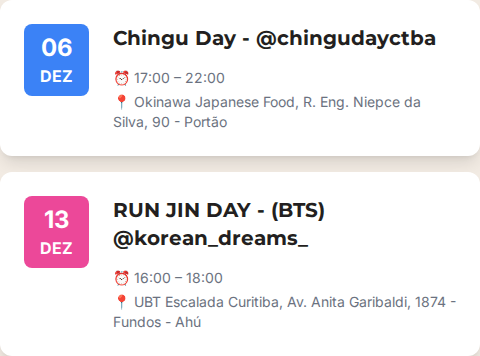
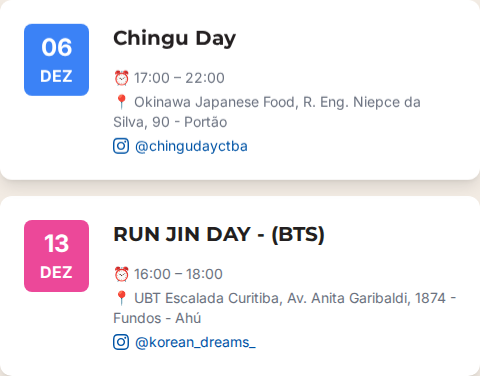
feat: Add Instagram handles to events
This commit adds the Instagram handles to the November and December events on the homepage, as requested by the user. The changes have been visually verified using Playwright.

diff --git a/index.html b/index.html
@@ -330,10 +330,11 @@
                                         <p class="font-bold">NOV</p>
                                     </div>
                                     <div class="flex-grow">
-                                        <h2 class="text-xl font-bold text-preto-carvao">HALLONee CWB - (Shinee) @08replay</h2>
+                                        <h2 class="text-xl font-bold text-preto-carvao">HALLONee CWB - (Shinee)</h2>
                                         <div class="text-sm text-gray-500 mt-4 space-y-1">
                                             <p>⏰ 13:00 – 15:00</p>
                                             <p>📍 Go Coffee - Água Verde, R. Mato Grosso, 45 - Água Verde</p>
+                                            <p><a href="https://www.instagram.com/08replay/" target="_blank" class="text-azul-guia hover:underline flex items-center"><svg class="w-4 h-4 mr-1.5" fill="currentColor" viewBox="0 0 24 24"><path d="M12 2.163c3.204 0 3.584.012 4.85.07 3.252.148 4.771 1.691 4.919 4.919.058 1.265.069 1.645.069 4.849 0 3.205-.012 3.584-.069 4.849-.149 3.225-1.664 4.771-4.919 4.919-1.266.058-1.644.07-4.85.07-3.204 0-3.584-.012-4.849-.07-3.26-.149-4.771-1.699-4.919-4.92-.058-1.265-.07-1.644-.07-4.849 0-3.204.013-3.583.07-4.849.149-3.227 1.664-4.771 4.919-4.919 1.266-.057 1.645-.069 4.849-.069zm0-2.163c-3.259 0-3.667.014-4.947.072-4.358.2-6.78 2.618-6.98 6.98-.059 1.281-.073 1.689-.073 4.948 0 3.259.014 3.668.072 4.948.2 4.358 2.618 6.78 6.98 6.98 1.281.058 1.689.072 4.948.072 3.259 0 3.668-.014 4.948-.072 4.354-.2 6.782-2.618 6.979-6.98.059-1.28.073-1.689.073-4.948 0-3.259-.014-3.667-.072-4.947-.196-4.354-2.617-6.78-6.979-6.98-1.281-.059-1.69-.073-4.949-.073zm0 5.838c-3.403 0-6.162 2.759-6.162 6.162s2.759 6.163 6.162 6.163 6.162-2.759 6.162-6.163c0-3.403-2.759-6.162-6.162-6.162zm0 10.162c-2.209 0-4-1.79-4-4 0-2.209 1.791-4 4-4s4 1.791 4 4c0 2.21-1.791 4-4 4zm6.406-11.845c-.796 0-1.441.645-1.441 1.44s.645 1.44 1.441 1.44c.795 0 1.439-.645 1.439-1.44s-.644-1.44-1.439-1.44z"/></svg>@08replay</a></p>
                                         </div>
                                     </div>
                                 </div>
@@ -344,10 +345,11 @@
                                         <p class="font-bold">NOV</p>
                                     </div>
                                     <div class="flex-grow">
-                                        <h2 class="text-xl font-bold text-preto-carvao">1º encontro de fandoms - @kworldstore._</h2>
+                                        <h2 class="text-xl font-bold text-preto-carvao">1º encontro de fandoms</h2>
                                         <div class="text-sm text-gray-500 mt-4 space-y-1">
                                             <p>⏰ 14:00 – 18:00</p>
                                             <p>📍 Santa No Soy Bar, R. Trajano Reis, 147 - São Francisco</p>
+                                            <p><a href="https://www.instagram.com/kworldstore._/" target="_blank" class="text-azul-guia hover:underline flex items-center"><svg class="w-4 h-4 mr-1.5" fill="currentColor" viewBox="0 0 24 24"><path d="M12 2.163c3.204 0 3.584.012 4.85.07 3.252.148 4.771 1.691 4.919 4.919.058 1.265.069 1.645.069 4.849 0 3.205-.012 3.584-.069 4.849-.149 3.225-1.664 4.771-4.919 4.919-1.266.058-1.644.07-4.85.07-3.204 0-3.584-.012-4.849-.07-3.26-.149-4.771-1.699-4.919-4.92-.058-1.265-.07-1.644-.07-4.849 0-3.204.013-3.583.07-4.849.149-3.227 1.664-4.771 4.919-4.919 1.266-.057 1.645-.069 4.849-.069zm0-2.163c-3.259 0-3.667.014-4.947.072-4.358.2-6.78 2.618-6.98 6.98-.059 1.281-.073 1.689-.073 4.948 0 3.259.014 3.668.072 4.948.2 4.358 2.618 6.78 6.98 6.98 1.281.058 1.689.072 4.948.072 3.259 0 3.668-.014 4.948-.072 4.354-.2 6.782-2.618 6.979-6.98.059-1.28.073-1.689.073-4.948 0-3.259-.014-3.667-.072-4.947-.196-4.354-2.617-6.78-6.979-6.98-1.281-.059-1.69-.073-4.949-.073zm0 5.838c-3.403 0-6.162 2.759-6.162 6.162s2.759 6.163 6.162 6.163 6.162-2.759 6.162-6.163c0-3.403-2.759-6.162-6.162-6.162zm0 10.162c-2.209 0-4-1.79-4-4 0-2.209 1.791-4 4-4s4 1.791 4 4c0 2.21-1.791 4-4 4zm6.406-11.845c-.796 0-1.441.645-1.441 1.44s.645 1.44 1.441 1.44c.795 0 1.439-.645 1.439-1.44s-.644-1.44-1.439-1.44z"/></svg>@kworldstore._</a></p>
                                         </div>
                                     </div>
                                 </div>
@@ -358,10 +360,11 @@
                                         <p class="font-bold">NOV</p>
                                     </div>
                                     <div class="flex-grow">
-                                        <h2 class="text-xl font-bold text-preto-carvao">R3Play College Edition - @r3play.kpop</h2>
+                                        <h2 class="text-xl font-bold text-preto-carvao">R3Play College Edition</h2>
                                         <div class="text-sm text-gray-500 mt-4 space-y-1">
                                             <p>⏰ 23:00 (15/11) – 17:00 (16/11)</p>
                                             <p>📍 Alameda Cabral, 521 - São Francisco</p>
+                                            <p><a href="https://www.instagram.com/r3play.kpop/" target="_blank" class="text-azul-guia hover:underline flex items-center"><svg class="w-4 h-4 mr-1.5" fill="currentColor" viewBox="0 0 24 24"><path d="M12 2.163c3.204 0 3.584.012 4.85.07 3.252.148 4.771 1.691 4.919 4.919.058 1.265.069 1.645.069 4.849 0 3.205-.012 3.584-.069 4.849-.149 3.225-1.664 4.771-4.919 4.919-1.266.058-1.644.07-4.85.07-3.204 0-3.584-.012-4.849-.07-3.26-.149-4.771-1.699-4.919-4.92-.058-1.265-.07-1.644-.07-4.849 0-3.204.013-3.583.07-4.849.149-3.227 1.664-4.771 4.919-4.919 1.266-.057 1.645-.069 4.849-.069zm0-2.163c-3.259 0-3.667.014-4.947.072-4.358.2-6.78 2.618-6.98 6.98-.059 1.281-.073 1.689-.073 4.948 0 3.259.014 3.668.072 4.948.2 4.358 2.618 6.78 6.98 6.98 1.281.058 1.689.072 4.948.072 3.259 0 3.668-.014 4.948-.072 4.354-.2 6.782-2.618 6.979-6.98.059-1.28.073-1.689.073-4.948 0-3.259-.014-3.667-.072-4.947-.196-4.354-2.617-6.78-6.979-6.98-1.281-.059-1.69-.073-4.949-.073zm0 5.838c-3.403 0-6.162 2.759-6.162 6.162s2.759 6.163 6.162 6.163 6.162-2.759 6.162-6.163c0-3.403-2.759-6.162-6.162-6.162zm0 10.162c-2.209 0-4-1.79-4-4 0-2.209 1.791-4 4-4s4 1.791 4 4c0 2.21-1.791 4-4 4zm6.406-11.845c-.796 0-1.441.645-1.441 1.44s.645 1.44 1.441 1.44c.795 0 1.439-.645 1.439-1.44s-.644-1.44-1.439-1.44z"/></svg>@r3play.kpop</a></p>
                                         </div>
                                     </div>
                                 </div>
@@ -372,10 +375,11 @@
                                         <p class="font-bold">NOV</p>
                                     </div>
                                     <div class="flex-grow">
-                                        <h2 class="text-xl font-bold text-preto-carvao">✨ Fanmeeting oficial de @livehooni - @sweetiestour</h2>
+                                        <h2 class="text-xl font-bold text-preto-carvao">✨ Fanmeeting oficial de @livehooni</h2>
                                         <div class="text-sm text-gray-500 mt-4 space-y-1">
                                             <p>⏰ 18:00 – 21:45</p>
                                             <p>📍 Espaço Fantástico das Artes, R. Trajano Reis, 41 - São Francisco</p>
+                                            <p><a href="https://www.instagram.com/sweetiestour/" target="_blank" class="text-azul-guia hover:underline flex items-center"><svg class="w-4 h-4 mr-1.5" fill="currentColor" viewBox="0 0 24 24"><path d="M12 2.163c3.204 0 3.584.012 4.85.07 3.252.148 4.771 1.691 4.919 4.919.058 1.265.069 1.645.069 4.849 0 3.205-.012 3.584-.069 4.849-.149 3.225-1.664 4.771-4.919 4.919-1.266.058-1.644.07-4.85.07-3.204 0-3.584-.012-4.849-.07-3.26-.149-4.771-1.699-4.919-4.92-.058-1.265-.07-1.644-.07-4.849 0-3.204.013-3.583.07-4.849.149-3.227 1.664-4.771 4.919-4.919 1.266-.057 1.645-.069 4.849-.069zm0-2.163c-3.259 0-3.667.014-4.947.072-4.358.2-6.78 2.618-6.98 6.98-.059 1.281-.073 1.689-.073 4.948 0 3.259.014 3.668.072 4.948.2 4.358 2.618 6.78 6.98 6.98 1.281.058 1.689.072 4.948.072 3.259 0 3.668-.014 4.948-.072 4.354-.2 6.782-2.618 6.979-6.98.059-1.28.073-1.689.073-4.948 0-3.259-.014-3.667-.072-4.947-.196-4.354-2.617-6.78-6.979-6.98-1.281-.059-1.69-.073-4.949-.073zm0 5.838c-3.403 0-6.162 2.759-6.162 6.162s2.759 6.163 6.162 6.163 6.162-2.759 6.162-6.163c0-3.403-2.759-6.162-6.162-6.162zm0 10.162c-2.209 0-4-1.79-4-4 0-2.209 1.791-4 4-4s4 1.791 4 4c0 2.21-1.791 4-4 4zm6.406-11.845c-.796 0-1.441.645-1.441 1.44s.645 1.44 1.441 1.44c.795 0 1.439-.645 1.439-1.44s-.644-1.44-1.439-1.44z"/></svg>@sweetiestour</a></p>
                                         </div>
                                     </div>
                                 </div>
@@ -400,10 +404,11 @@
                                         <p class="font-bold">NOV</p>
                                     </div>
                                     <div class="flex-grow">
-                                        <h2 class="text-xl font-bold text-preto-carvao">BLOODY SUNSET (Enhypen) - @0205.club</h2>
+                                        <h2 class="text-xl font-bold text-preto-carvao">BLOODY SUNSET (Enhypen)</h2>
                                         <div class="text-sm text-gray-500 mt-4 space-y-1">
                                             <p>⏰ 13:00 – 17:00</p>
                                             <p>📍 PINGADDO Café e Pão na Chapa, R. Comendador Araújo, 444 - Centro</p>
+                                            <p><a href="https://www.instagram.com/0205.club/" target="_blank" class="text-azul-guia hover:underline flex items-center"><svg class="w-4 h-4 mr-1.5" fill="currentColor" viewBox="0 0 24 24"><path d="M12 2.163c3.204 0 3.584.012 4.85.07 3.252.148 4.771 1.691 4.919 4.919.058 1.265.069 1.645.069 4.849 0 3.205-.012 3.584-.069 4.849-.149 3.225-1.664 4.771-4.919 4.919-1.266.058-1.644.07-4.85.07-3.204 0-3.584-.012-4.849-.07-3.26-.149-4.771-1.699-4.919-4.92-.058-1.265-.07-1.644-.07-4.849 0-3.204.013-3.583.07-4.849.149-3.227 1.664-4.771 4.919-4.919 1.266-.057 1.645-.069 4.849-.069zm0-2.163c-3.259 0-3.667.014-4.947.072-4.358.2-6.78 2.618-6.98 6.98-.059 1.281-.073 1.689-.073 4.948 0 3.259.014 3.668.072 4.948.2 4.358 2.618 6.78 6.98 6.98 1.281.058 1.689.072 4.948.072 3.259 0 3.668-.014 4.948-.072 4.354-.2 6.782-2.618 6.979-6.98.059-1.28.073-1.689.073-4.948 0-3.259-.014-3.667-.072-4.947-.196-4.354-2.617-6.78-6.979-6.98-1.281-.059-1.69-.073-4.949-.073zm0 5.838c-3.403 0-6.162 2.759-6.162 6.162s2.759 6.163 6.162 6.163 6.162-2.759 6.162-6.163c0-3.403-2.759-6.162-6.162-6.162zm0 10.162c-2.209 0-4-1.79-4-4 0-2.209 1.791-4 4-4s4 1.791 4 4c0 2.21-1.791 4-4 4zm6.406-11.845c-.796 0-1.441.645-1.441 1.44s.645 1.44 1.441 1.44c.795 0 1.439-.645 1.439-1.44s-.644-1.44-1.439-1.44z"/></svg>@0205.club</a></p>
                                         </div>
                                     </div>
                                 </div>
@@ -414,9 +419,10 @@
                                         <p class="font-bold">NOV</p>
                                     </div>
                                     <div class="flex-grow">
-                                        <h2 class="text-xl font-bold text-preto-carvao">Dorama fest - @doramafestoficial</h2>
+                                        <h2 class="text-xl font-bold text-preto-carvao">Dorama fest</h2>
                                         <div class="text-sm text-gray-500 mt-4 space-y-1">
                                             <p>📍 Clube Recreativo Dom Pedro II, R. Brg. Franco, 3662 - Água Verde</p>
+                                            <p><a href="https://www.instagram.com/doramafestoficial/" target="_blank" class="text-azul-guia hover:underline flex items-center"><svg class="w-4 h-4 mr-1.5" fill="currentColor" viewBox="0 0 24 24"><path d="M12 2.163c3.204 0 3.584.012 4.85.07 3.252.148 4.771 1.691 4.919 4.919.058 1.265.069 1.645.069 4.849 0 3.205-.012 3.584-.069 4.849-.149 3.225-1.664 4.771-4.919 4.919-1.266.058-1.644.07-4.85.07-3.204 0-3.584-.012-4.849-.07-3.26-.149-4.771-1.699-4.919-4.92-.058-1.265-.07-1.644-.07-4.849 0-3.204.013-3.583.07-4.849.149-3.227 1.664-4.771 4.919-4.919 1.266-.057 1.645-.069 4.849-.069zm0-2.163c-3.259 0-3.667.014-4.947.072-4.358.2-6.78 2.618-6.98 6.98-.059 1.281-.073 1.689-.073 4.948 0 3.259.014 3.668.072 4.948.2 4.358 2.618 6.78 6.98 6.98 1.281.058 1.689.072 4.948.072 3.259 0 3.668-.014 4.948-.072 4.354-.2 6.782-2.618 6.979-6.98.059-1.28.073-1.689.073-4.948 0-3.259-.014-3.667-.072-4.947-.196-4.354-2.617-6.78-6.979-6.98-1.281-.059-1.69-.073-4.949-.073zm0 5.838c-3.403 0-6.162 2.759-6.162 6.162s2.759 6.163 6.162 6.163 6.162-2.759 6.162-6.163c0-3.403-2.759-6.162-6.162-6.162zm0 10.162c-2.209 0-4-1.79-4-4 0-2.209 1.791-4 4-4s4 1.791 4 4c0 2.21-1.791 4-4 4zm6.406-11.845c-.796 0-1.441.645-1.441 1.44s.645 1.44 1.441 1.44c.795 0 1.439-.645 1.439-1.44s-.644-1.44-1.439-1.44z"/></svg>@doramafestoficial</a></p>
                                         </div>
                                     </div>
                                 </div>
@@ -431,10 +437,11 @@
                                         <p class="font-bold">DEZ</p>
                                     </div>
                                     <div class="flex-grow">
-                                        <h2 class="text-xl font-bold text-preto-carvao">Chingu Day - @chingudayctba</h2>
+                                        <h2 class="text-xl font-bold text-preto-carvao">Chingu Day</h2>
                                         <div class="text-sm text-gray-500 mt-4 space-y-1">
                                             <p>⏰ 17:00 – 22:00</p>
                                             <p>📍 Okinawa Japanese Food, R. Eng. Niepce da Silva, 90 - Portão</p>
+                                            <p><a href="https://www.instagram.com/chingudayctba/" target="_blank" class="text-azul-guia hover:underline flex items-center"><svg class="w-4 h-4 mr-1.5" fill="currentColor" viewBox="0 0 24 24"><path d="M12 2.163c3.204 0 3.584.012 4.85.07 3.252.148 4.771 1.691 4.919 4.919.058 1.265.069 1.645.069 4.849 0 3.205-.012 3.584-.069 4.849-.149 3.225-1.664 4.771-4.919 4.919-1.266.058-1.644.07-4.85.07-3.204 0-3.584-.012-4.849-.07-3.26-.149-4.771-1.699-4.919-4.92-.058-1.265-.07-1.644-.07-4.849 0-3.204.013-3.583.07-4.849.149-3.227 1.664-4.771 4.919-4.919 1.266-.057 1.645-.069 4.849-.069zm0-2.163c-3.259 0-3.667.014-4.947.072-4.358.2-6.78 2.618-6.98 6.98-.059 1.281-.073 1.689-.073 4.948 0 3.259.014 3.668.072 4.948.2 4.358 2.618 6.78 6.98 6.98 1.281.058 1.689.072 4.948.072 3.259 0 3.668-.014 4.948-.072 4.354-.2 6.782-2.618 6.979-6.98.059-1.28.073-1.689.073-4.948 0-3.259-.014-3.667-.072-4.947-.196-4.354-2.617-6.78-6.979-6.98-1.281-.059-1.69-.073-4.949-.073zm0 5.838c-3.403 0-6.162 2.759-6.162 6.162s2.759 6.163 6.162 6.163 6.162-2.759 6.162-6.163c0-3.403-2.759-6.162-6.162-6.162zm0 10.162c-2.209 0-4-1.79-4-4 0-2.209 1.791-4 4-4s4 1.791 4 4c0 2.21-1.791 4-4 4zm6.406-11.845c-.796 0-1.441.645-1.441 1.44s.645 1.44 1.441 1.44c.795 0 1.439-.645 1.439-1.44s-.644-1.44-1.439-1.44z"/></svg>@chingudayctba</a></p>
                                         </div>
                                     </div>
                                 </div>
@@ -445,10 +452,11 @@
                                         <p class="font-bold">DEZ</p>
                                     </div>
                                     <div class="flex-grow">
-                                        <h2 class="text-xl font-bold text-preto-carvao">RUN JIN DAY - (BTS) @korean_dreams_</h2>
+                                        <h2 class="text-xl font-bold text-preto-carvao">RUN JIN DAY - (BTS)</h2>
                                         <div class="text-sm text-gray-500 mt-4 space-y-1">
                                             <p>⏰ 16:00 – 18:00</p>
                                             <p>📍 UBT Escalada Curitiba, Av. Anita Garibaldi, 1874 - Fundos - Ahú</p>
+                                            <p><a href="https://www.instagram.com/korean_dreams_/" target="_blank" class="text-azul-guia hover:underline flex items-center"><svg class="w-4 h-4 mr-1.5" fill="currentColor" viewBox="0 0 24 24"><path d="M12 2.163c3.204 0 3.584.012 4.85.07 3.252.148 4.771 1.691 4.919 4.919.058 1.265.069 1.645.069 4.849 0 3.205-.012 3.584-.069 4.849-.149 3.225-1.664 4.771-4.919 4.919-1.266.058-1.644.07-4.85.07-3.204 0-3.584-.012-4.849-.07-3.26-.149-4.771-1.699-4.919-4.92-.058-1.265-.07-1.644-.07-4.849 0-3.204.013-3.583.07-4.849.149-3.227 1.664-4.771 4.919-4.919 1.266-.057 1.645-.069 4.849-.069zm0-2.163c-3.259 0-3.667.014-4.947.072-4.358.2-6.78 2.618-6.98 6.98-.059 1.281-.073 1.689-.073 4.948 0 3.259.014 3.668.072 4.948.2 4.358 2.618 6.78 6.98 6.98 1.281.058 1.689.072 4.948.072 3.259 0 3.668-.014 4.948-.072 4.354-.2 6.782-2.618 6.979-6.98.059-1.28.073-1.689.073-4.948 0-3.259-.014-3.667-.072-4.947-.196-4.354-2.617-6.78-6.979-6.98-1.281-.059-1.69-.073-4.949-.073zm0 5.838c-3.403 0-6.162 2.759-6.162 6.162s2.759 6.163 6.162 6.163 6.162-2.759 6.162-6.163c0-3.403-2.759-6.162-6.162-6.162zm0 10.162c-2.209 0-4-1.79-4-4 0-2.209 1.791-4 4-4s4 1.791 4 4c0 2.21-1.791 4-4 4zm6.406-11.845c-.796 0-1.441.645-1.441 1.44s.645 1.44 1.441 1.44c.795 0 1.439-.645 1.439-1.44s-.644-1.44-1.439-1.44z"/></svg>@korean_dreams_</a></p>
                                         </div>
                                     </div>
                                 </div>
